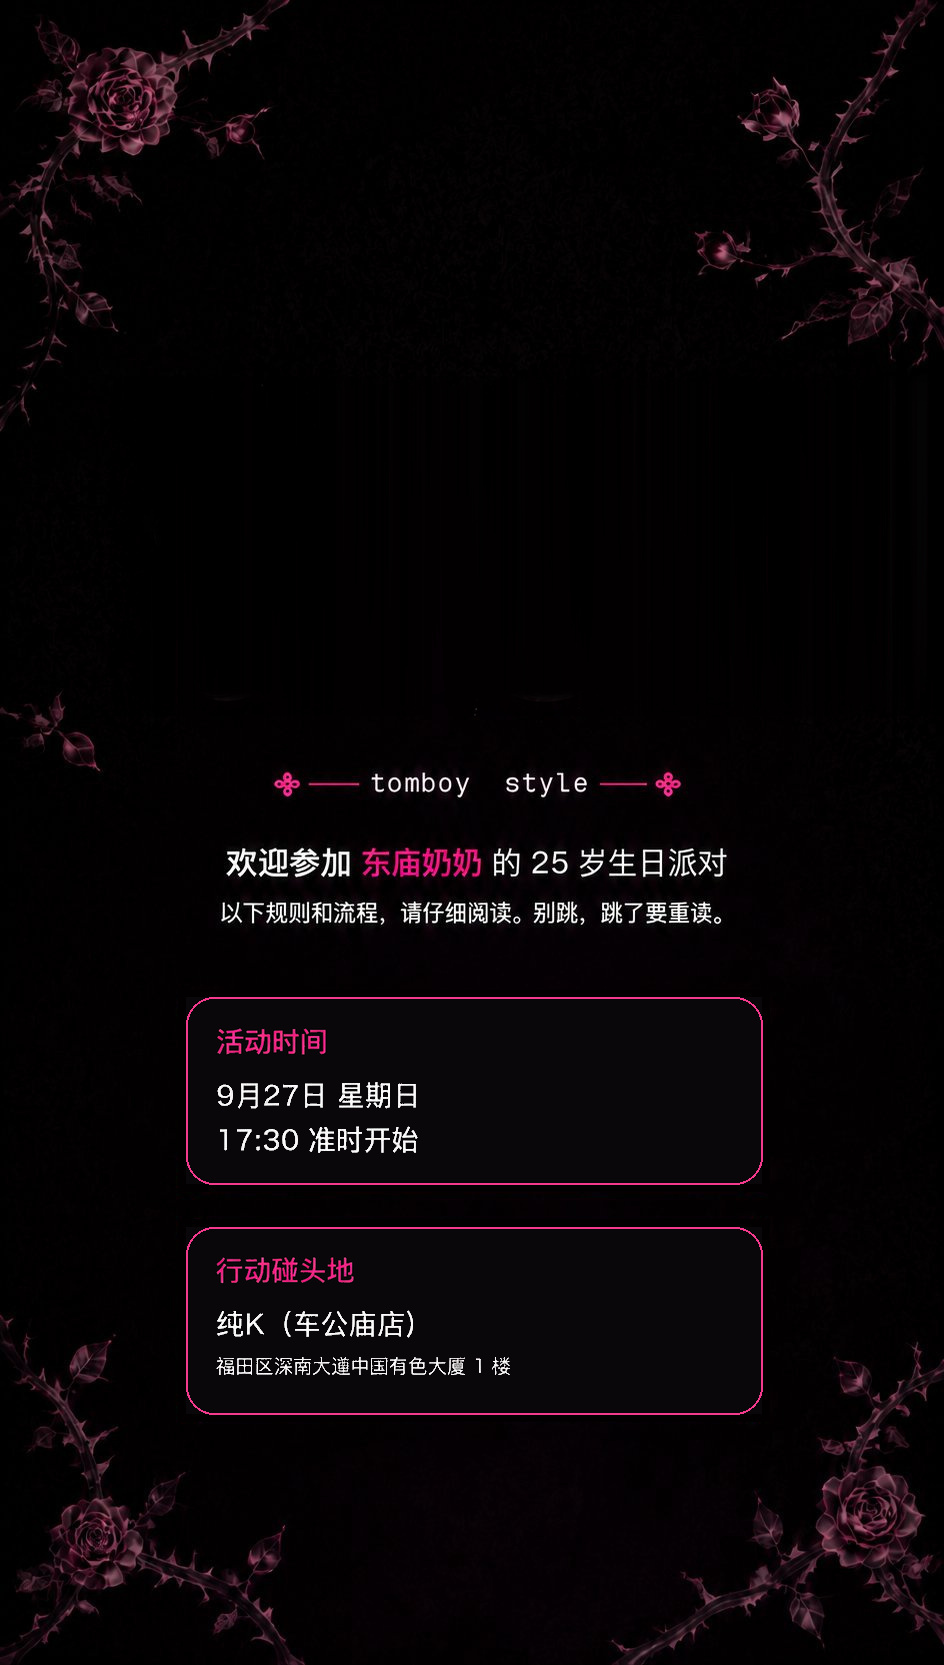
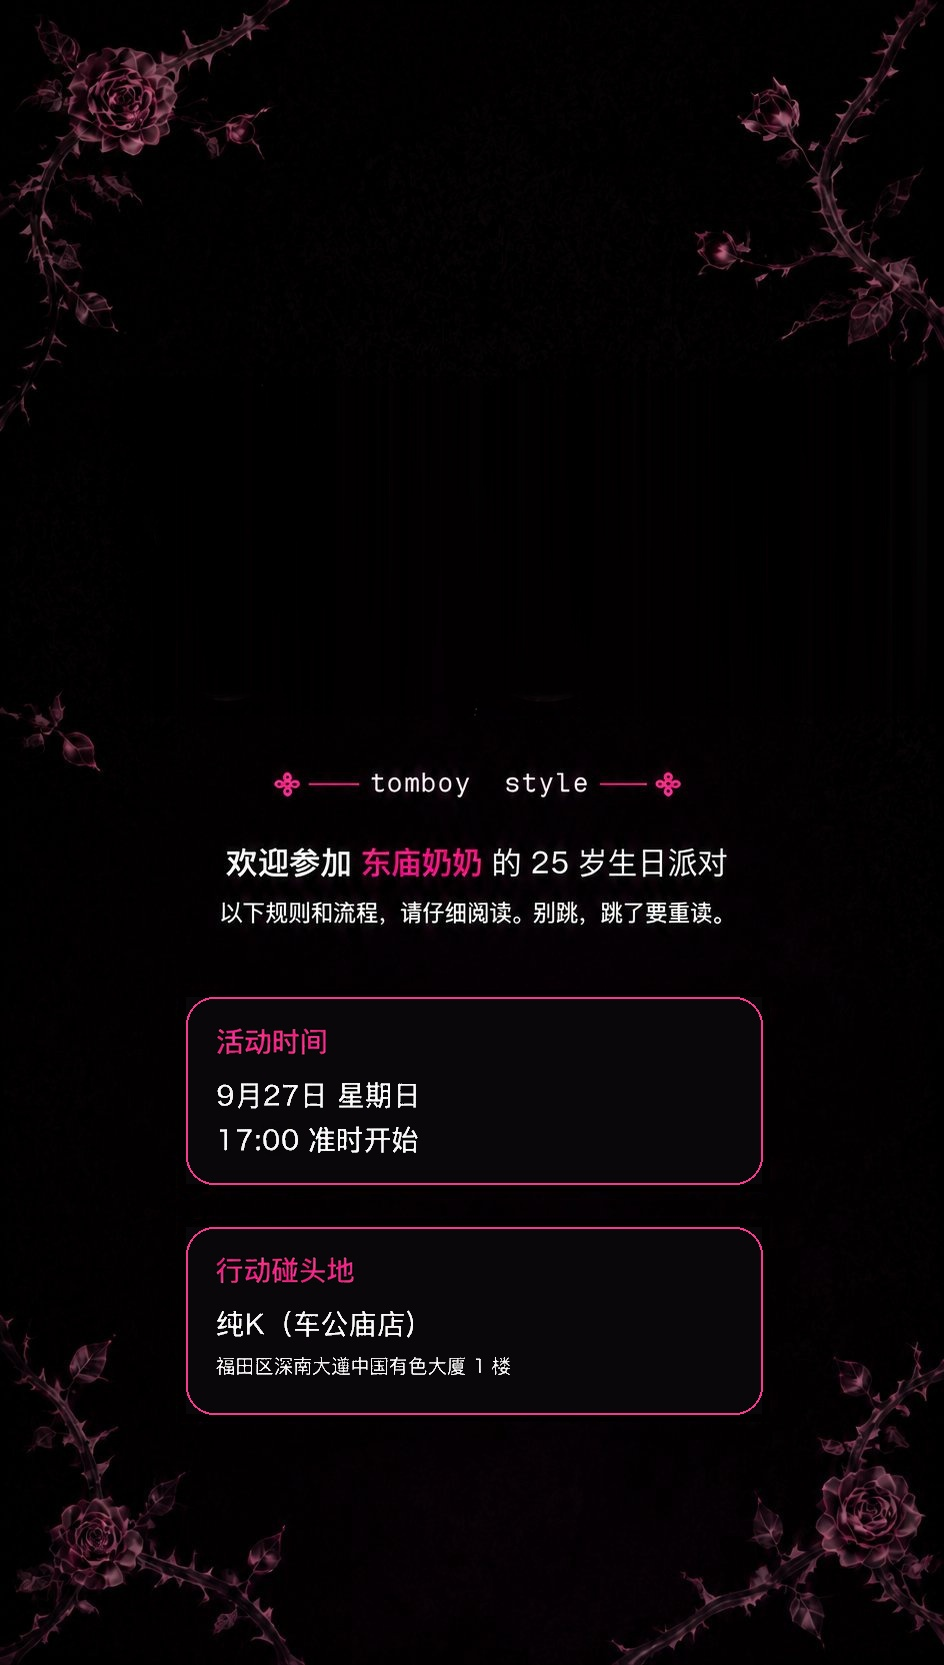
Flow start time 17:30 -> 17:00 (HTML text + cover_base.jpg glyph transplant)

diff --git a/chusiqi.html b/chusiqi.html
@@ -767,7 +767,7 @@
         <h2 data-page-node-id="l5ESVl6rihNofcnfdO59ZN">当晚<span class="accent" data-page-node-id="eN1gBAnsyFD8LCaWL6edGO">流程</span></h2>
         <div class="card" data-page-node-id="0iTUfQpiQVedee6MN8BhKJ">
           <div class="flow-head" data-page-node-id="BuZbBHdwuQIFj88LVVFIwX"><span class="flow-badge" data-page-node-id="j8BX4TLzeG8jO6m42BT7dp">01</span><h3 data-page-node-id="9Cw7bC3EeBadbY4Ntk3yG4">纯K 唱歌吃饭</h3></div>
-          <p data-page-node-id="hMu5GnS4XnuTLf4kgBDrj9">17:30 准时开始 · 纯K（车公庙店）</p>
+          <p data-page-node-id="hMu5GnS4XnuTLf4kgBDrj9">17:00 准时开始 · 纯K（车公庙店）</p>
           <p class="addr" data-page-node-id="mPE1RTIN9gjHpuhFZR1Sn1">福田区深南大道中国有色大厦 1 楼</p>
           <div class="tags" data-page-node-id="Sr3bwtrPAFDNC9rZ87Lpp5"><span class="tag important" data-page-node-id="J0bxwkFhw8dkkhnW8fY9cf">全员必到</span></div>
         </div>

diff --git a/index.html b/index.html
@@ -767,7 +767,7 @@
         <h2 data-page-node-id="l5ESVl6rihNofcnfdO59ZN">当晚<span class="accent" data-page-node-id="eN1gBAnsyFD8LCaWL6edGO">流程</span></h2>
         <div class="card" data-page-node-id="0iTUfQpiQVedee6MN8BhKJ">
           <div class="flow-head" data-page-node-id="BuZbBHdwuQIFj88LVVFIwX"><span class="flow-badge" data-page-node-id="j8BX4TLzeG8jO6m42BT7dp">01</span><h3 data-page-node-id="9Cw7bC3EeBadbY4Ntk3yG4">纯K 唱歌吃饭</h3></div>
-          <p data-page-node-id="hMu5GnS4XnuTLf4kgBDrj9">17:30 准时开始 · 纯K（车公庙店）</p>
+          <p data-page-node-id="hMu5GnS4XnuTLf4kgBDrj9">17:00 准时开始 · 纯K（车公庙店）</p>
           <p class="addr" data-page-node-id="mPE1RTIN9gjHpuhFZR1Sn1">福田区深南大道中国有色大厦 1 楼</p>
           <div class="tags" data-page-node-id="Sr3bwtrPAFDNC9rZ87Lpp5"><span class="tag important" data-page-node-id="J0bxwkFhw8dkkhnW8fY9cf">全员必到</span></div>
         </div>

diff --git a/muyixin.html b/muyixin.html
@@ -767,7 +767,7 @@
         <h2 data-page-node-id="l5ESVl6rihNofcnfdO59ZN">当晚<span class="accent" data-page-node-id="eN1gBAnsyFD8LCaWL6edGO">流程</span></h2>
         <div class="card" data-page-node-id="0iTUfQpiQVedee6MN8BhKJ">
           <div class="flow-head" data-page-node-id="BuZbBHdwuQIFj88LVVFIwX"><span class="flow-badge" data-page-node-id="j8BX4TLzeG8jO6m42BT7dp">01</span><h3 data-page-node-id="9Cw7bC3EeBadbY4Ntk3yG4">纯K 唱歌吃饭</h3></div>
-          <p data-page-node-id="hMu5GnS4XnuTLf4kgBDrj9">17:30 准时开始 · 纯K（车公庙店）</p>
+          <p data-page-node-id="hMu5GnS4XnuTLf4kgBDrj9">17:00 准时开始 · 纯K（车公庙店）</p>
           <p class="addr" data-page-node-id="mPE1RTIN9gjHpuhFZR1Sn1">福田区深南大道中国有色大厦 1 楼</p>
           <div class="tags" data-page-node-id="Sr3bwtrPAFDNC9rZ87Lpp5"><span class="tag important" data-page-node-id="J0bxwkFhw8dkkhnW8fY9cf">全员必到</span></div>
         </div>

diff --git a/tangyalin.html b/tangyalin.html
@@ -767,7 +767,7 @@
         <h2 data-page-node-id="l5ESVl6rihNofcnfdO59ZN">当晚<span class="accent" data-page-node-id="eN1gBAnsyFD8LCaWL6edGO">流程</span></h2>
         <div class="card" data-page-node-id="0iTUfQpiQVedee6MN8BhKJ">
           <div class="flow-head" data-page-node-id="BuZbBHdwuQIFj88LVVFIwX"><span class="flow-badge" data-page-node-id="j8BX4TLzeG8jO6m42BT7dp">01</span><h3 data-page-node-id="9Cw7bC3EeBadbY4Ntk3yG4">纯K 唱歌吃饭</h3></div>
-          <p data-page-node-id="hMu5GnS4XnuTLf4kgBDrj9">17:30 准时开始 · 纯K（车公庙店）</p>
+          <p data-page-node-id="hMu5GnS4XnuTLf4kgBDrj9">17:00 准时开始 · 纯K（车公庙店）</p>
           <p class="addr" data-page-node-id="mPE1RTIN9gjHpuhFZR1Sn1">福田区深南大道中国有色大厦 1 楼</p>
           <div class="tags" data-page-node-id="Sr3bwtrPAFDNC9rZ87Lpp5"><span class="tag important" data-page-node-id="J0bxwkFhw8dkkhnW8fY9cf">全员必到</span></div>
         </div>

diff --git a/wangyifan.html b/wangyifan.html
@@ -767,7 +767,7 @@
         <h2 data-page-node-id="l5ESVl6rihNofcnfdO59ZN">当晚<span class="accent" data-page-node-id="eN1gBAnsyFD8LCaWL6edGO">流程</span></h2>
         <div class="card" data-page-node-id="0iTUfQpiQVedee6MN8BhKJ">
           <div class="flow-head" data-page-node-id="BuZbBHdwuQIFj88LVVFIwX"><span class="flow-badge" data-page-node-id="j8BX4TLzeG8jO6m42BT7dp">01</span><h3 data-page-node-id="9Cw7bC3EeBadbY4Ntk3yG4">纯K 唱歌吃饭</h3></div>
-          <p data-page-node-id="hMu5GnS4XnuTLf4kgBDrj9">17:30 准时开始 · 纯K（车公庙店）</p>
+          <p data-page-node-id="hMu5GnS4XnuTLf4kgBDrj9">17:00 准时开始 · 纯K（车公庙店）</p>
           <p class="addr" data-page-node-id="mPE1RTIN9gjHpuhFZR1Sn1">福田区深南大道中国有色大厦 1 楼</p>
           <div class="tags" data-page-node-id="Sr3bwtrPAFDNC9rZ87Lpp5"><span class="tag important" data-page-node-id="J0bxwkFhw8dkkhnW8fY9cf">全员必到</span></div>
         </div>

diff --git a/wuhaolin.html b/wuhaolin.html
@@ -767,7 +767,7 @@
         <h2 data-page-node-id="l5ESVl6rihNofcnfdO59ZN">当晚<span class="accent" data-page-node-id="eN1gBAnsyFD8LCaWL6edGO">流程</span></h2>
         <div class="card" data-page-node-id="0iTUfQpiQVedee6MN8BhKJ">
           <div class="flow-head" data-page-node-id="BuZbBHdwuQIFj88LVVFIwX"><span class="flow-badge" data-page-node-id="j8BX4TLzeG8jO6m42BT7dp">01</span><h3 data-page-node-id="9Cw7bC3EeBadbY4Ntk3yG4">纯K 唱歌吃饭</h3></div>
-          <p data-page-node-id="hMu5GnS4XnuTLf4kgBDrj9">17:30 准时开始 · 纯K（车公庙店）</p>
+          <p data-page-node-id="hMu5GnS4XnuTLf4kgBDrj9">17:00 准时开始 · 纯K（车公庙店）</p>
           <p class="addr" data-page-node-id="mPE1RTIN9gjHpuhFZR1Sn1">福田区深南大道中国有色大厦 1 楼</p>
           <div class="tags" data-page-node-id="Sr3bwtrPAFDNC9rZ87Lpp5"><span class="tag important" data-page-node-id="J0bxwkFhw8dkkhnW8fY9cf">全员必到</span></div>
         </div>

diff --git a/xiechaoliang.html b/xiechaoliang.html
@@ -767,7 +767,7 @@
         <h2 data-page-node-id="l5ESVl6rihNofcnfdO59ZN">当晚<span class="accent" data-page-node-id="eN1gBAnsyFD8LCaWL6edGO">流程</span></h2>
         <div class="card" data-page-node-id="0iTUfQpiQVedee6MN8BhKJ">
           <div class="flow-head" data-page-node-id="BuZbBHdwuQIFj88LVVFIwX"><span class="flow-badge" data-page-node-id="j8BX4TLzeG8jO6m42BT7dp">01</span><h3 data-page-node-id="9Cw7bC3EeBadbY4Ntk3yG4">纯K 唱歌吃饭</h3></div>
-          <p data-page-node-id="hMu5GnS4XnuTLf4kgBDrj9">17:30 准时开始 · 纯K（车公庙店）</p>
+          <p data-page-node-id="hMu5GnS4XnuTLf4kgBDrj9">17:00 准时开始 · 纯K（车公庙店）</p>
           <p class="addr" data-page-node-id="mPE1RTIN9gjHpuhFZR1Sn1">福田区深南大道中国有色大厦 1 楼</p>
           <div class="tags" data-page-node-id="Sr3bwtrPAFDNC9rZ87Lpp5"><span class="tag important" data-page-node-id="J0bxwkFhw8dkkhnW8fY9cf">全员必到</span></div>
         </div>

diff --git a/yihan.html b/yihan.html
@@ -767,7 +767,7 @@
         <h2 data-page-node-id="l5ESVl6rihNofcnfdO59ZN">当晚<span class="accent" data-page-node-id="eN1gBAnsyFD8LCaWL6edGO">流程</span></h2>
         <div class="card" data-page-node-id="0iTUfQpiQVedee6MN8BhKJ">
           <div class="flow-head" data-page-node-id="BuZbBHdwuQIFj88LVVFIwX"><span class="flow-badge" data-page-node-id="j8BX4TLzeG8jO6m42BT7dp">01</span><h3 data-page-node-id="9Cw7bC3EeBadbY4Ntk3yG4">纯K 唱歌吃饭</h3></div>
-          <p data-page-node-id="hMu5GnS4XnuTLf4kgBDrj9">17:30 准时开始 · 纯K（车公庙店）</p>
+          <p data-page-node-id="hMu5GnS4XnuTLf4kgBDrj9">17:00 准时开始 · 纯K（车公庙店）</p>
           <p class="addr" data-page-node-id="mPE1RTIN9gjHpuhFZR1Sn1">福田区深南大道中国有色大厦 1 楼</p>
           <div class="tags" data-page-node-id="Sr3bwtrPAFDNC9rZ87Lpp5"><span class="tag important" data-page-node-id="J0bxwkFhw8dkkhnW8fY9cf">全员必到</span></div>
         </div>

diff --git a/yike.html b/yike.html
@@ -767,7 +767,7 @@
         <h2 data-page-node-id="l5ESVl6rihNofcnfdO59ZN">当晚<span class="accent" data-page-node-id="eN1gBAnsyFD8LCaWL6edGO">流程</span></h2>
         <div class="card" data-page-node-id="0iTUfQpiQVedee6MN8BhKJ">
           <div class="flow-head" data-page-node-id="BuZbBHdwuQIFj88LVVFIwX"><span class="flow-badge" data-page-node-id="j8BX4TLzeG8jO6m42BT7dp">01</span><h3 data-page-node-id="9Cw7bC3EeBadbY4Ntk3yG4">纯K 唱歌吃饭</h3></div>
-          <p data-page-node-id="hMu5GnS4XnuTLf4kgBDrj9">17:30 准时开始 · 纯K（车公庙店）</p>
+          <p data-page-node-id="hMu5GnS4XnuTLf4kgBDrj9">17:00 准时开始 · 纯K（车公庙店）</p>
           <p class="addr" data-page-node-id="mPE1RTIN9gjHpuhFZR1Sn1">福田区深南大道中国有色大厦 1 楼</p>
           <div class="tags" data-page-node-id="Sr3bwtrPAFDNC9rZ87Lpp5"><span class="tag important" data-page-node-id="J0bxwkFhw8dkkhnW8fY9cf">全员必到</span></div>
         </div>

diff --git a/yuxiaoxiao.html b/yuxiaoxiao.html
@@ -767,7 +767,7 @@
         <h2 data-page-node-id="l5ESVl6rihNofcnfdO59ZN">当晚<span class="accent" data-page-node-id="eN1gBAnsyFD8LCaWL6edGO">流程</span></h2>
         <div class="card" data-page-node-id="0iTUfQpiQVedee6MN8BhKJ">
           <div class="flow-head" data-page-node-id="BuZbBHdwuQIFj88LVVFIwX"><span class="flow-badge" data-page-node-id="j8BX4TLzeG8jO6m42BT7dp">01</span><h3 data-page-node-id="9Cw7bC3EeBadbY4Ntk3yG4">纯K 唱歌吃饭</h3></div>
-          <p data-page-node-id="hMu5GnS4XnuTLf4kgBDrj9">17:30 准时开始 · 纯K（车公庙店）</p>
+          <p data-page-node-id="hMu5GnS4XnuTLf4kgBDrj9">17:00 准时开始 · 纯K（车公庙店）</p>
           <p class="addr" data-page-node-id="mPE1RTIN9gjHpuhFZR1Sn1">福田区深南大道中国有色大厦 1 楼</p>
           <div class="tags" data-page-node-id="Sr3bwtrPAFDNC9rZ87Lpp5"><span class="tag important" data-page-node-id="J0bxwkFhw8dkkhnW8fY9cf">全员必到</span></div>
         </div>

diff --git a/zhoujiyi.html b/zhoujiyi.html
@@ -767,7 +767,7 @@
         <h2 data-page-node-id="l5ESVl6rihNofcnfdO59ZN">当晚<span class="accent" data-page-node-id="eN1gBAnsyFD8LCaWL6edGO">流程</span></h2>
         <div class="card" data-page-node-id="0iTUfQpiQVedee6MN8BhKJ">
           <div class="flow-head" data-page-node-id="BuZbBHdwuQIFj88LVVFIwX"><span class="flow-badge" data-page-node-id="j8BX4TLzeG8jO6m42BT7dp">01</span><h3 data-page-node-id="9Cw7bC3EeBadbY4Ntk3yG4">纯K 唱歌吃饭</h3></div>
-          <p data-page-node-id="hMu5GnS4XnuTLf4kgBDrj9">17:30 准时开始 · 纯K（车公庙店）</p>
+          <p data-page-node-id="hMu5GnS4XnuTLf4kgBDrj9">17:00 准时开始 · 纯K（车公庙店）</p>
           <p class="addr" data-page-node-id="mPE1RTIN9gjHpuhFZR1Sn1">福田区深南大道中国有色大厦 1 楼</p>
           <div class="tags" data-page-node-id="Sr3bwtrPAFDNC9rZ87Lpp5"><span class="tag important" data-page-node-id="J0bxwkFhw8dkkhnW8fY9cf">全员必到</span></div>
         </div>
